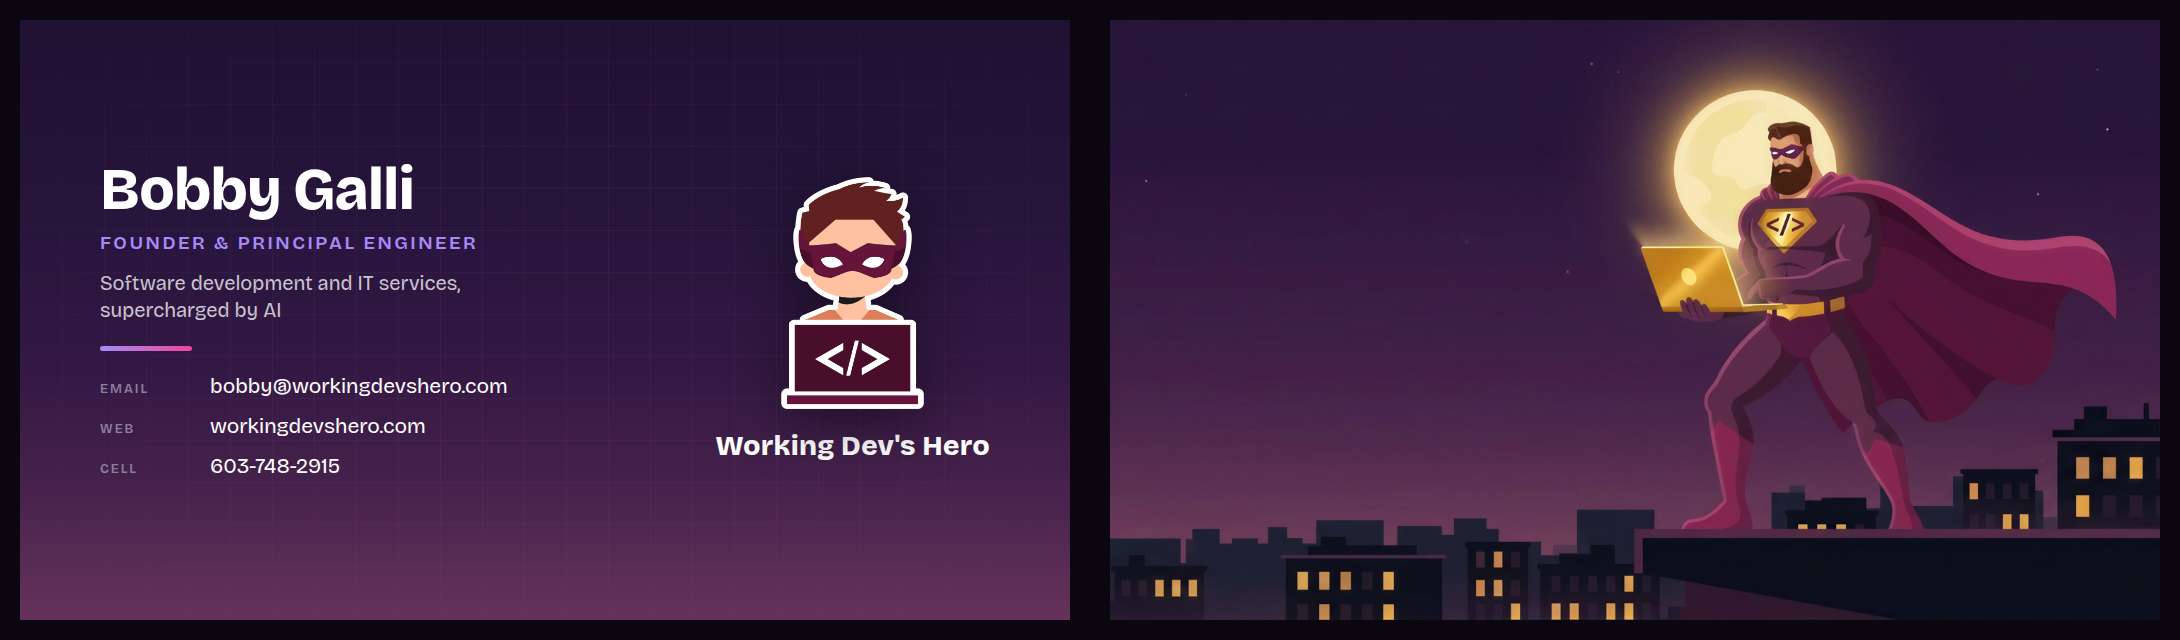
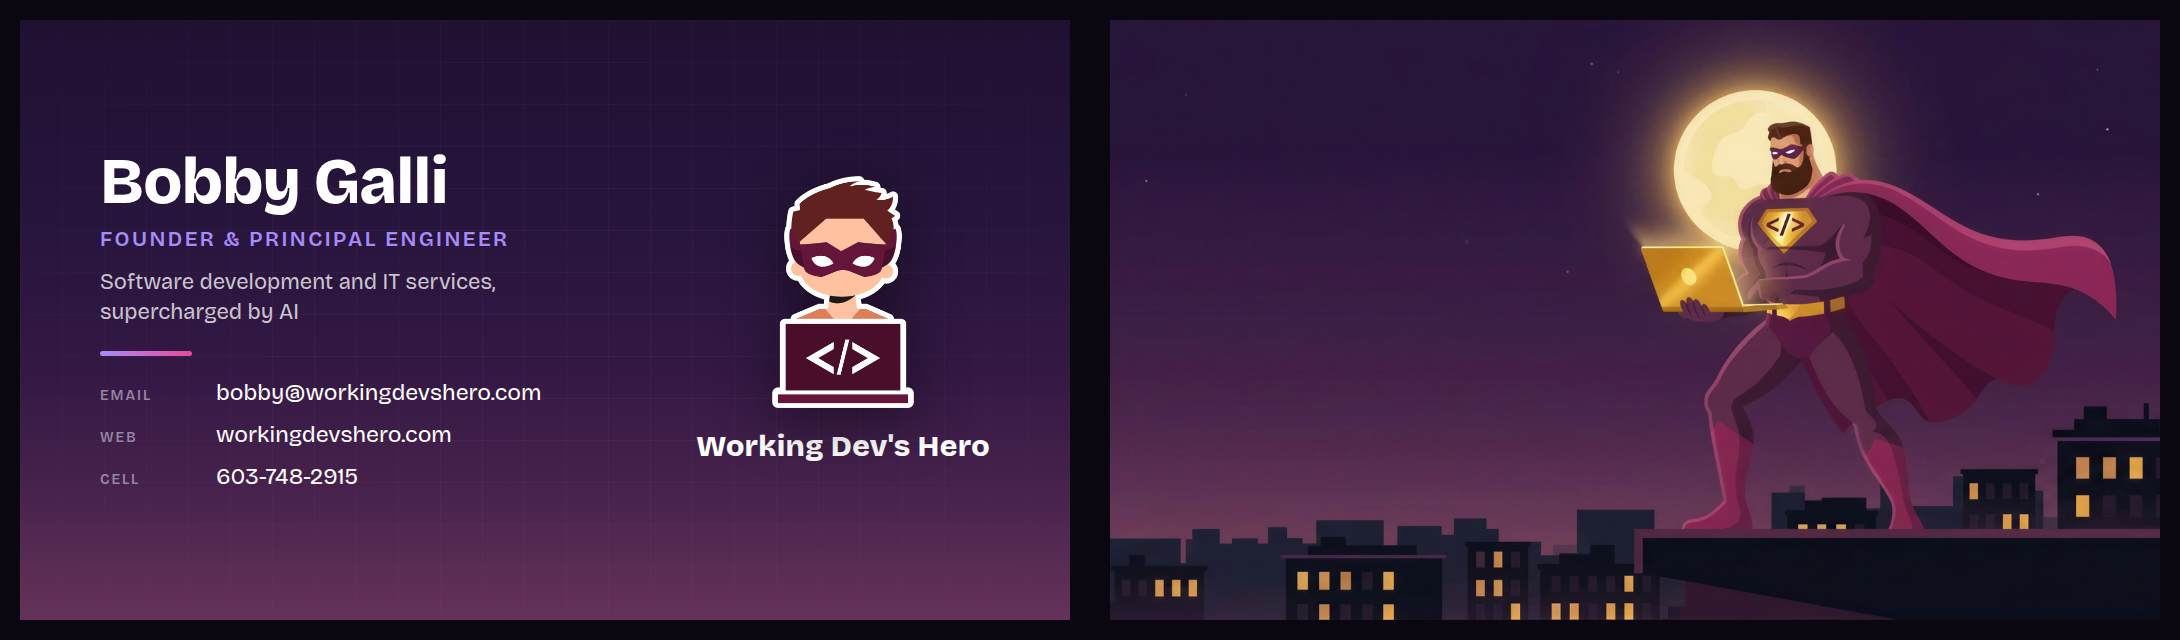
feat(brand): nudge card type up ~10% for print legibility

diff --git a/scripts/business-card.html b/scripts/business-card.html
@@ -104,31 +104,31 @@
     padding: var(--pad);
   }
   .front-left { position: relative; z-index: 2; }
-  .name { font-size: 58px; font-weight: 800; letter-spacing: -1px; line-height: 1; }
+  .name { font-size: 64px; font-weight: 800; letter-spacing: -1px; line-height: 1; }
   .role {
-    font-size: 19px; font-weight: 600; letter-spacing: 2.5px; text-transform: uppercase;
+    font-size: 21px; font-weight: 600; letter-spacing: 2.5px; text-transform: uppercase;
     color: var(--violet); margin-top: 12px;
   }
   .what {
-    font-size: 20px; font-weight: 400; line-height: 1.35;
-    color: rgba(255, 255, 255, 0.76); margin-top: 16px; max-width: 470px;
+    font-size: 22px; font-weight: 400; line-height: 1.35;
+    color: rgba(255, 255, 255, 0.76); margin-top: 16px; max-width: 500px;
   }
-  .rule { width: 92px; height: 5px; border-radius: 3px; background: var(--grad); margin: 22px 0; }
-  .contact { list-style: none; display: grid; gap: 14px; }
+  .rule { width: 92px; height: 5px; border-radius: 3px; background: var(--grad); margin: 23px 0; }
+  .contact { list-style: none; display: grid; gap: 15px; }
   .contact li { display: flex; align-items: baseline; gap: 18px; }
   .contact .k {
-    width: 92px; flex: 0 0 auto;
-    font-size: 13px; font-weight: 600; letter-spacing: 2px; text-transform: uppercase;
-    color: #8d7fa0;
+    width: 98px; flex: 0 0 auto;
+    font-size: 14px; font-weight: 600; letter-spacing: 2px; text-transform: uppercase;
+    color: #9486a6;
   }
-  .contact .v { font-size: 21px; font-weight: 400; color: #fff; }
+  .contact .v { font-size: 23px; font-weight: 400; color: #fff; }
 
   .front-right {
     position: relative; z-index: 2; text-align: center;
     display: flex; flex-direction: column; align-items: center; gap: 20px;
   }
   .front-right .mark { height: 232px; width: auto; filter: drop-shadow(0 12px 30px rgba(0, 0, 0, 0.45)); }
-  .front-right .word { font-size: 28px; font-weight: 800; letter-spacing: 0.3px; white-space: nowrap; color: #fff; }
+  .front-right .word { font-size: 30px; font-weight: 800; letter-spacing: 0.3px; white-space: nowrap; color: #fff; }
 
   /* ---------- Back: hero scene, full bleed ---------- */
   .scene {
